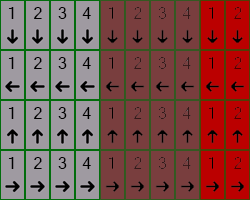
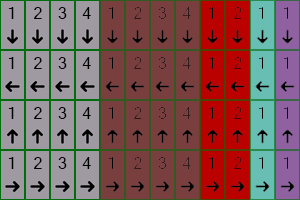
Add shielding functionality and attack & shield animation functionality for player

diff --git a/js/Player.js b/js/Player.js
@@ -2,6 +2,8 @@ const DASH_LENGTH = 150;
 const DASH_SPEED = 50;
 const DASH_COOLDOWN = 5;
 const ATTACK_COOLDOWN = 5;
+const SHIELD_MAX_TIME = 10;
+const SHIELD_COOLDOWN = 5;
 
 // inherit from EntityClass
 PlayerClass.prototype = new EntityClass();
@@ -20,7 +22,9 @@ function PlayerClass() {
 	this.states = {
 		idle: {startFrame: 0, endFrame: 3, animationSpeed: 0.1},
 		walk: {startFrame: 4, endFrame: 7, animationSpeed: 0.25},
-		dash: {startFrame: 8, endFrame: 9, animationSpeed: 1}
+		dash: {startFrame: 8, endFrame: 9, animationSpeed: 1},
+		attack: {startFrame: 10, endFrame: 10, animationSpeed: 1},
+		shield: {startFrame: 11, endFrame: 11, animationSpeed: 1}
 	}
 	
 	this.AnimatedSprite = new AnimatedSpriteClass(playerSheet, this.width, this.height, this.states);
@@ -31,6 +35,7 @@ function PlayerClass() {
 	this.keyHeld_Right = false;
 	this.keyHeld_Dash = false;
 	this.keyHeld_Attack = false;
+	this.keyHeld_Shield = false;
 	
 	this.controlKeyUp;
 	this.controlKeyLeft;
@@ -38,6 +43,7 @@ function PlayerClass() {
 	this.controlKeyDown;
 	this.controlKeyDash;
 	this.controlKeyAttack;
+	this.controlKeyShield;
 	
 	// private
 	let isDashing = false;
@@ -51,33 +57,41 @@ function PlayerClass() {
 	let attackWidth = 40;
 	let attackHeight = 40;
 	
-	this.setupInput = function(upKey, leftKey, downKey, rightKey, dashKey, attackKey) {
+	let isShielding = false;
+	let shieldRemaining = SHIELD_MAX_TIME;
+	let shieldCooldown = SHIELD_COOLDOWN;
+	
+	this.setupInput = function(upKey, leftKey, downKey, rightKey, dashKey, attackKey, shieldKey) {
 		this.controlKeyUp = upKey;
 		this.controlKeyLeft = leftKey;
 		this.controlKeyDown = downKey;
 		this.controlKeyRight = rightKey;
 		this.controlKeyDash = dashKey;
 		this.controlKeyAttack = attackKey;
+		this.controlKeyShield = shieldKey;
 	}
 	
 	this.move = function () {
 
 		// MOVEMENT
 		this.movementDirection = [false, false, false, false]; // up, left, down, right
-		if (this.keyHeld_Up && !isDashing) {
-			this.movementDirection[UP] = true;
-		}
 		
-		if (this.keyHeld_Down && !isDashing) {
-			this.movementDirection[DOWN] = true;
-		}
+		if (!isDashing && !isShielding) {
+			if (this.keyHeld_Up) {
+				this.movementDirection[UP] = true;
+			}
 		
-		if (this.keyHeld_Right && !isDashing) {
-			this.movementDirection[RIGHT] = true;
-		}
+			if (this.keyHeld_Down) {
+				this.movementDirection[DOWN] = true;
+			}
+		
+			if (this.keyHeld_Right) {
+				this.movementDirection[RIGHT] = true;
+			}
 
-		if (this.keyHeld_Left && !isDashing) {
-			this.movementDirection[LEFT] = true;
+			if (this.keyHeld_Left) {
+				this.movementDirection[LEFT] = true;
+			}
 		}
 		
 		// DASH
@@ -134,9 +148,8 @@ function PlayerClass() {
 		}
 		
 		// ATTACK
-		if (this.keyHeld_Attack && attackCooldown <= 0) { // not attacking right now
+		if (this.keyHeld_Attack && attackCooldown <= 0 && !isShielding && !isDashing) { // not attacking right now & is able to
 			if (Attack == null) {
-				// NEED TO CHANGE DIRECTION OF ATTACK BASED ON PLAYER DIRECTION
 				let centerX = this.x + this.width / 2, centerY = this.y + this.height / 2;
 				let attackX, attackY;
 				
@@ -186,6 +199,29 @@ function PlayerClass() {
 				attackCooldown = 1;
 			}
 		}
+		
+		// SHIELD
+		if (this.keyHeld_Shield && !isShielding && shieldCooldown <= 0 && !isDashing && Attack == null) { // not currently shielding & is able to
+			isShielding = true; // prevents taking damage
+		}
+		if (isShielding){ // currently shielding
+			shieldRemaining--;
+			
+			if (shieldRemaining <= 0 || !this.keyHeld_Shield) {
+				isShielding = false;
+				shieldCooldown = SHIELD_COOLDOWN;
+			}
+		}
+		if (shieldCooldown > 0) {
+			shieldCooldown--;
+			
+			if (shieldCooldown <= 0 && !this.keyHeld_Shield) {
+				shieldRemaining = SHIELD_MAX_TIME;
+			}
+			else if (shieldCooldown <= 0 && this.keyHeld_Shield) {
+				shieldCooldown = 1; // prevent repeatedly shielding if keyheld
+			}
+		}
 
 		this.updateState(); // update animation state
 		EntityClass.prototype.move.call(this); // call superclass function
@@ -228,6 +264,12 @@ function PlayerClass() {
 	this.updateState = function() {
 		if (isDashing) {
 			this.AnimatedSprite.changeState("dash");
+		}
+		else if (Attack != null) {
+			this.AnimatedSprite.changeState("attack");
+		}
+		else if (isShielding) {
+			this.AnimatedSprite.changeState("shield");
 		}
 		else if (this.movementDirection[UP] || this.movementDirection[LEFT] || this.movementDirection[DOWN] || this.movementDirection[RIGHT]) {
 			this.AnimatedSprite.changeState("walk");

diff --git a/js/Input.js b/js/Input.js
@@ -4,6 +4,7 @@ const KEY_S = 83;
 const KEY_D = 68;
 const KEY_SPACE = 32;
 const KEY_K = 75;
+const KEY_L = 76;
 
 function setUpInput() {
 	//canvas.addEventListener('mousemove', updateMousePos);
@@ -11,7 +12,7 @@ function setUpInput() {
 	document.addEventListener('keydown', keyPressed);
 	document.addEventListener('keyup', keyReleased);
 	
-	Player.setupInput(KEY_W, KEY_A, KEY_S, KEY_D, KEY_SPACE, KEY_K);
+	Player.setupInput(KEY_W, KEY_A, KEY_S, KEY_D, KEY_SPACE, KEY_K, KEY_L);
 }
 
 function keySet(evt, player, isPressed) {
@@ -32,6 +33,9 @@ function keySet(evt, player, isPressed) {
 	}
 	if (evt.keyCode == player.controlKeyAttack) {
 		player.keyHeld_Attack = isPressed;
+	}
+	if (evt.keyCode == player.controlKeyShield) {
+		player.keyHeld_Shield = isPressed;
 	}
 	
 	evt.preventDefault();
